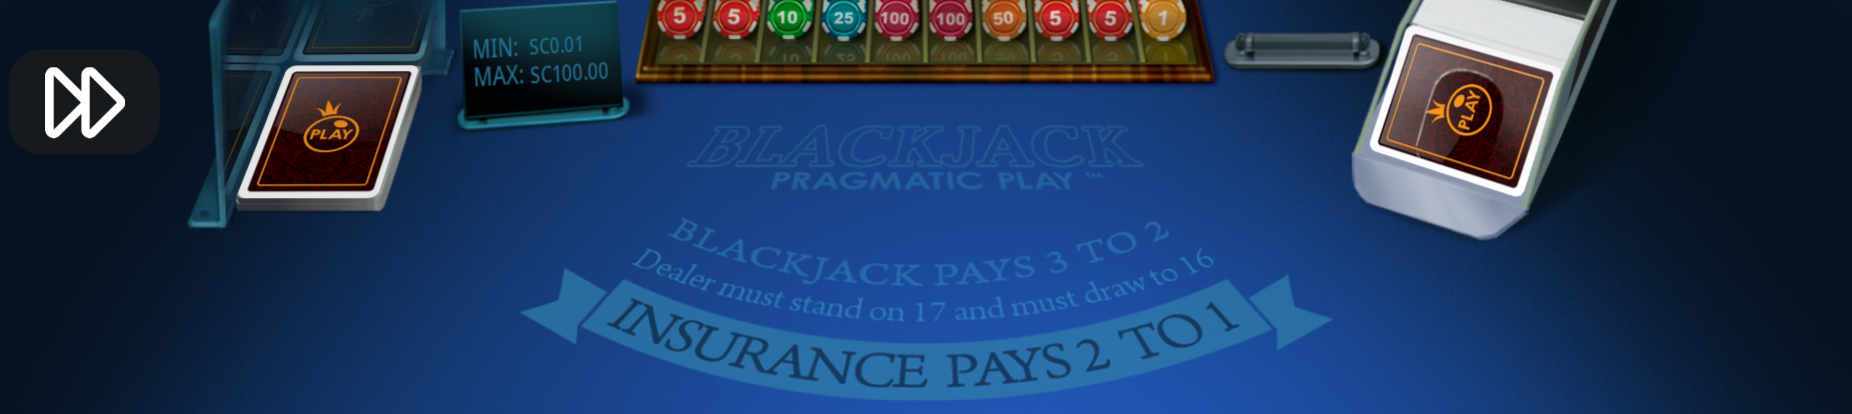
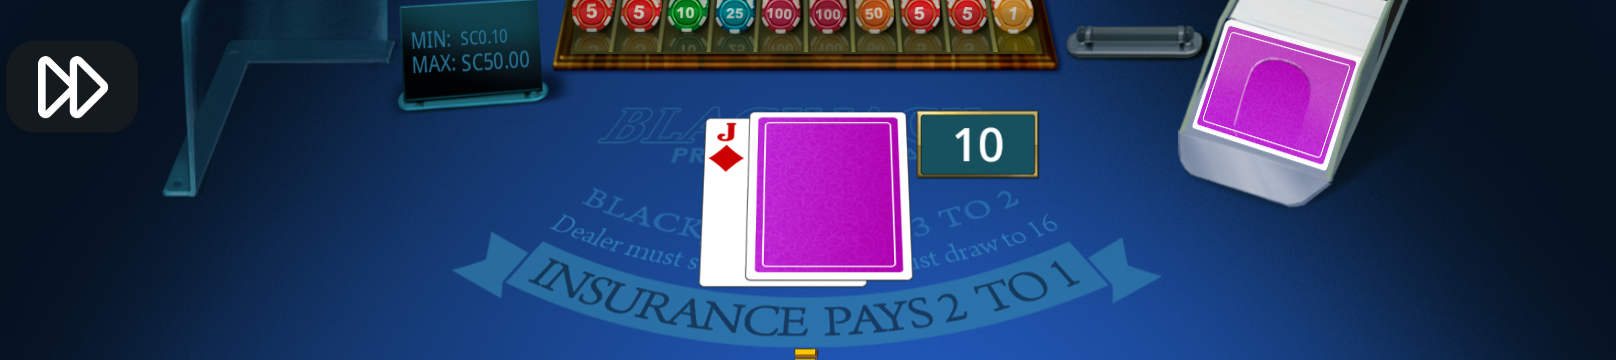
return int values for coordinates

diff --git a/pulsz.py b/pulsz.py
@@ -238,9 +238,9 @@ class BlackjackPlayer:
 
                     # Return coordinates in a dictionary
                     return {
-                        'top_left': (top_left_x, top_left_y),
-                        'center': (center_x, center_y),
-                        'bottom_right': (bottom_right_x, bottom_right_y)
+                        'top_left': (int(top_left_x), int(top_left_y)),
+                        'center': (int(center_x), int(center_y)),
+                        'bottom_right': (int(bottom_right_x), int(bottom_right_y))
                     }
 
         return {
